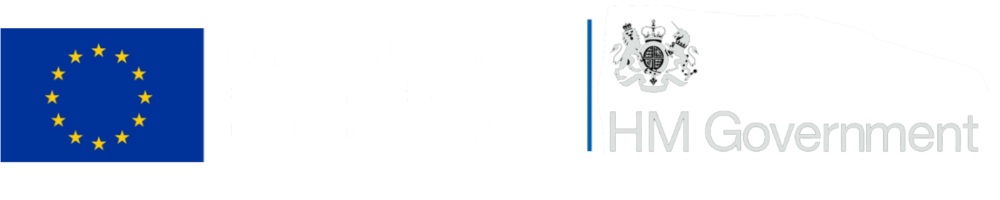
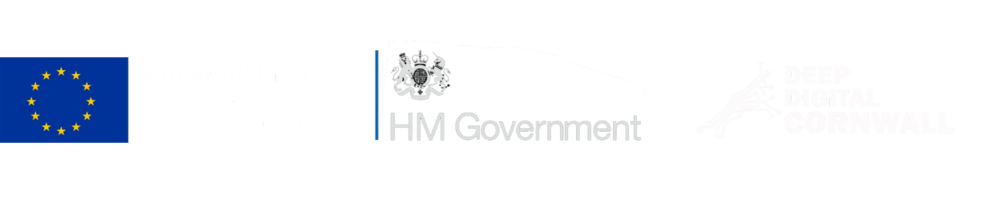
Add

diff --git a/index.html b/index.html
@@ -658,9 +658,10 @@
         
 
         <div class="row">
-          <div class="col-md-8">
+          
+          <div class="col-md-10">
 
-            <p class="mb-30 font-16px white-color">Supported by</p>
+            <p class="mb-10 font-12px white-color">Supported by</p>
             <img class="img-responsive" src="assets/images/EU.png"
             alt="EU logo" />
 
